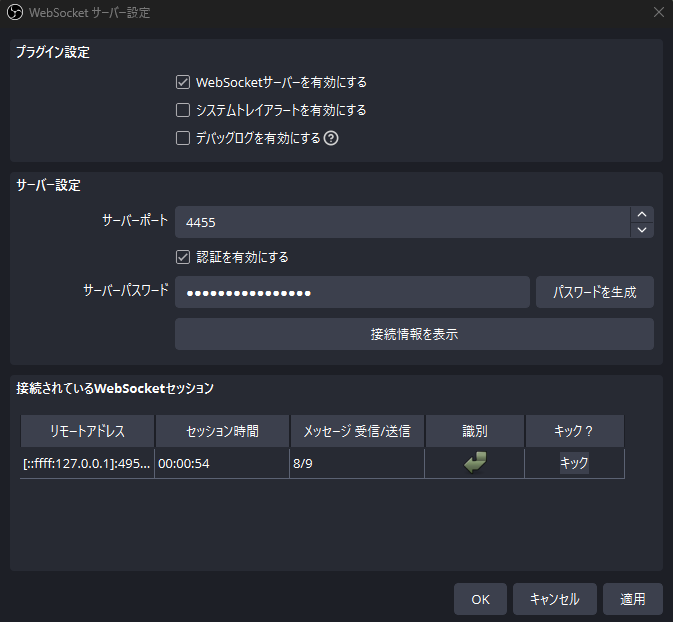
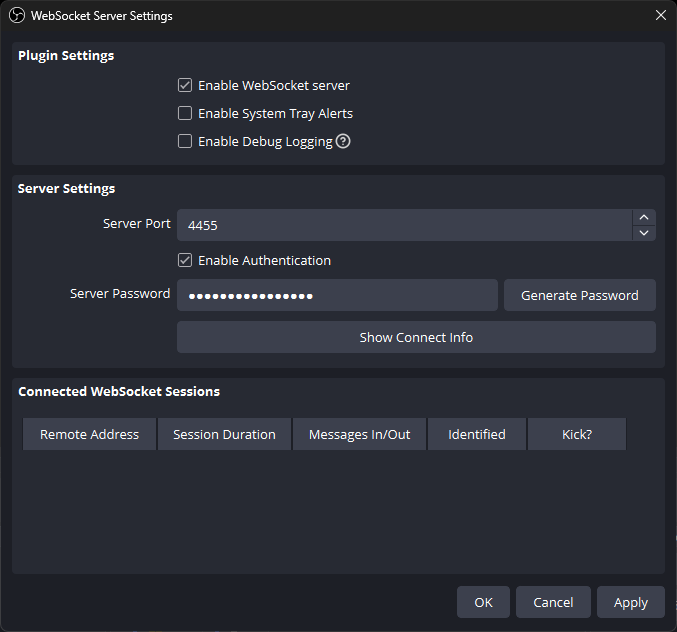
OBS の WebSocket 設定画面の英語版の画像に差し替える

diff --git a/i18n/en/docusaurus-plugin-content-docs/current/start/setup.md b/i18n/en/docusaurus-plugin-content-docs/current/start/setup.md
@@ -22,7 +22,7 @@ OverRec works OBS through OBS's WebSocket feature. Turn it on once in OBS.
 3. Check **"Enable WebSocket server"**. Leave "Enable Authentication" on.
 4. Press **"Apply"**.
 
-   ![OBS's WebSocket Server Settings (shown in Japanese)](../img/obs-websocket.png)
+   ![OBS's WebSocket Server Settings](../img/obs-websocket.png)
 
 ## 2. Connect to OBS {#connect}
 
